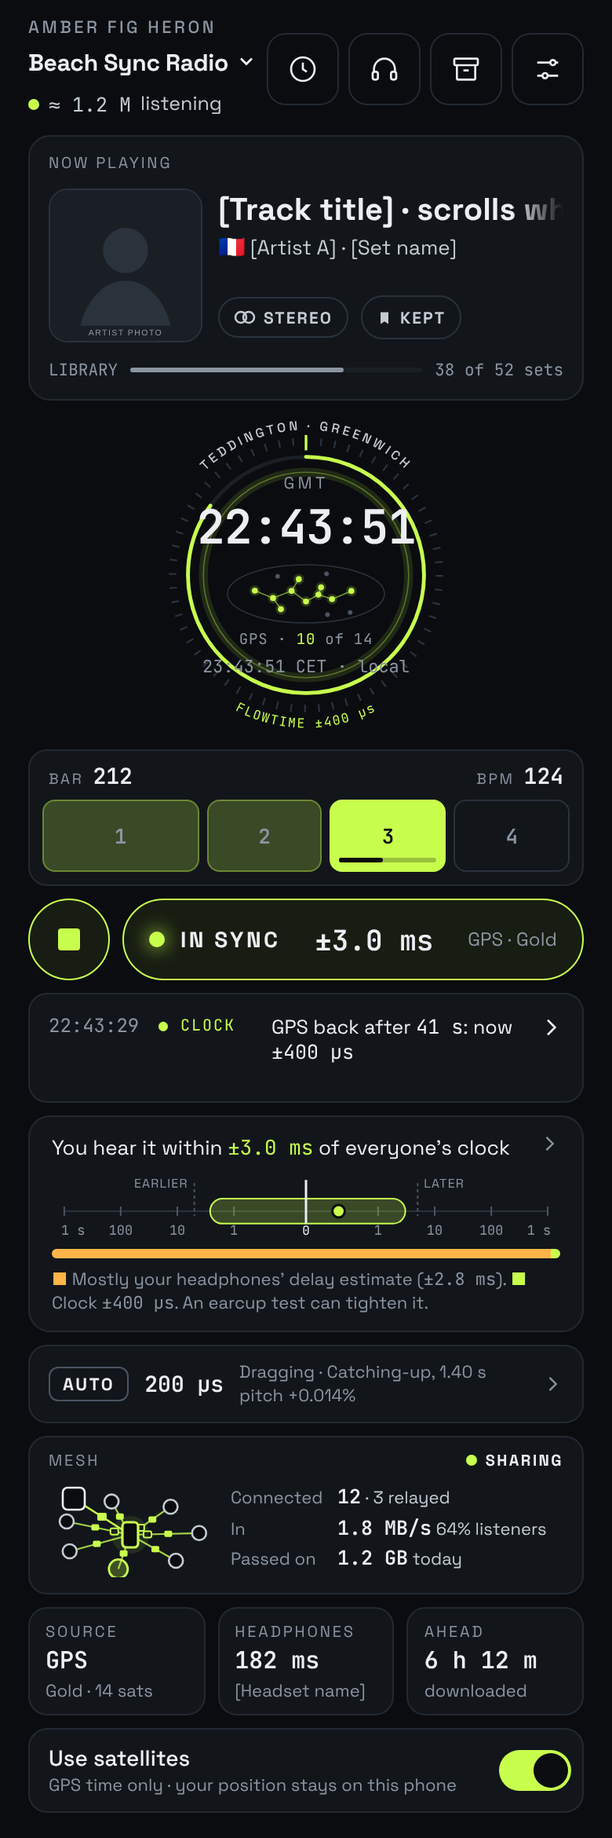
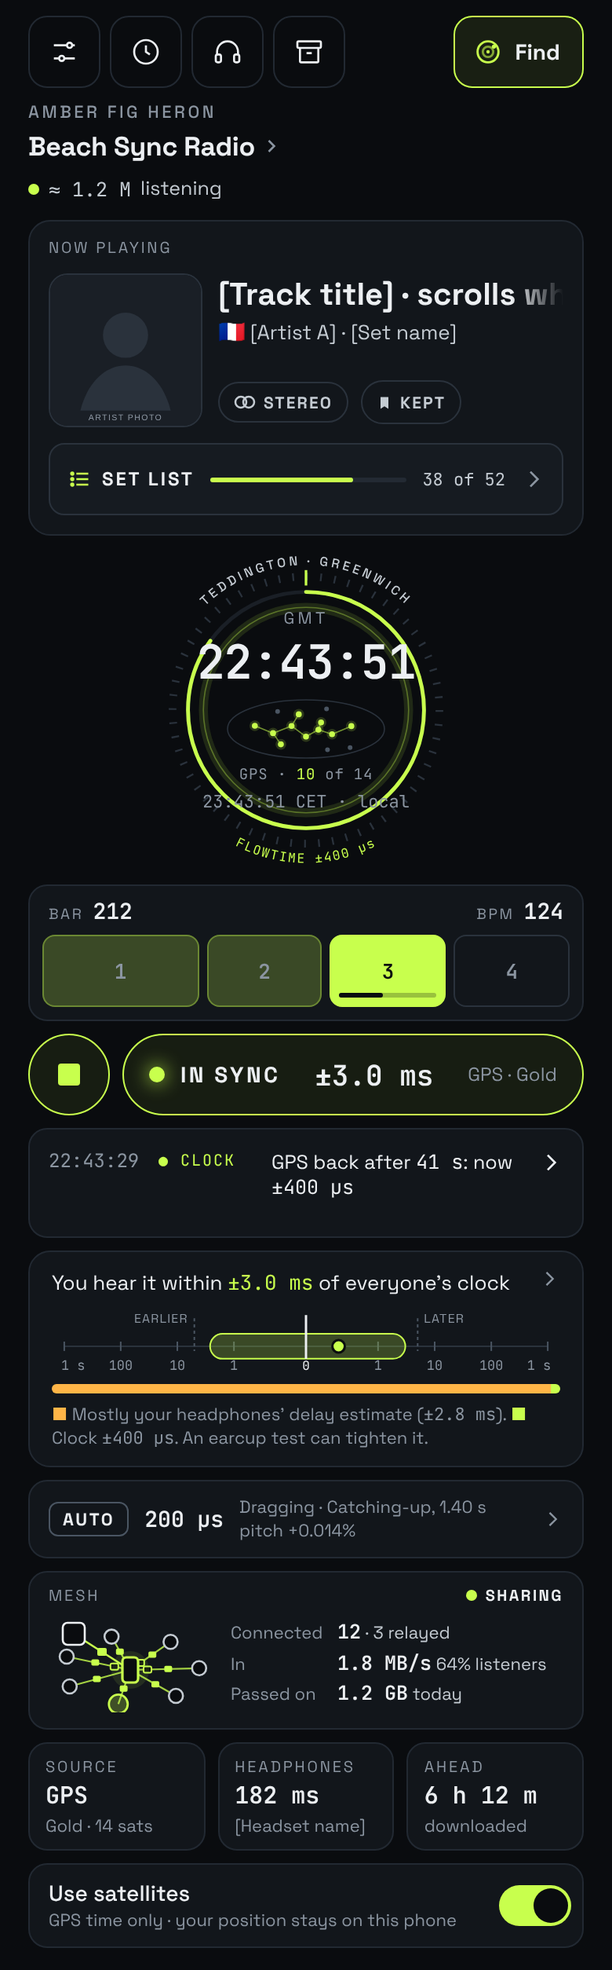
Hand-offs 58-61 from Claude Desktop; work queue: their build order and 15 Nov mesh findings

diff --git a/design/ui-spec.md b/design/ui-spec.md
@@ -1,4 +1,4 @@
-# UI spec (hand-off 57)
+# UI spec (hand-off 63)
 
 Field names come from Claude Code's "Fields that exist today" table in `feedback.md`, as of 1 Nov 2026. If one has been renamed since, use the new name.
 
@@ -1226,12 +1226,12 @@ Boards: Now playing · receiving, Receiving · states. Screens: `home-receiving.
 
 | Part | Spec |
 |---|---|
-| Where | Now Playing, directly under the clock, above the beat strip. Only while a set is arriving (the next set, a gap being filled, a kept set). Not for sending only: that stays in the Mesh card. Tap opens Swarm. |
+| Where | Now Playing, directly under the clock, above the beat strip. Only while a set is arriving (the next set, a gap being filled, a kept set). Not for sending only: that stays in the Mesh card. Tap the block map: Where it came from (hand-off 58). Tap elsewhere: Swarm. |
 | Box | Same card as Now Playing (`#12161B`, 14 px radius) with a `color-mix(in srgb, {{accent}} 35%, transparent)` border and a faint accent glow in the top-right corner (`radial-gradient`, accent 9%). |
 | Header | Live dot (accent, soft halo) · `RECEIVING` in accent caps, under it `peer-to-peer · from 9 listeners` in grey. Right: rate `1.8 MB/s` (mono, 16 px) and a 44×18 sparkline of the last 60 s, accent line over a 14% fill. |
 | Set line | Set name 15 px bold, `next · 12:31` grey, right `404 / 640 MB` mono. Several sets queued: the soonest, with `1 of 3` beside the name. |
 | Block map | 32 × 5 squares (8 px, 2 px gap), one square per block in playing order, left to right then top to bottom. From a listener: accent 90%. From the station: grey `#8B95A1` 55%. Just arrived (last 2 s): near-white with an accent glow. On its way: dashed accent outline. Still needed: `#1A1F26`. Under it: a tick and `plays from here 12:31` at the left, `end 13:52` at the right (mono 8.5 px). If a set has more blocks than 160, each square stands for several and lights when all of them are in. |
-| Listeners | The 3 sending most: avatar (initials in their colour), flag from their address (none if unknown), nym, Wi-Fi icon if on the same Wi-Fi, a rate bar (accent gradient) and kB/s. Then `The station · 12%` with a grey bar. Rows swap only after 10 s. Tap a row: that listener's blocks stay lit and the rest dim for 3 s; a second tap opens their Swarm sheet. |
+| Listeners | The 3 sending most: avatar (initials in their source colour: blue `#3987e5`, orange `#d95926`, aqua `#199e70`, the same as Where it came from, hand-off 58), flag from their address (none if unknown), nym, Wi-Fi icon if on the same Wi-Fi, a rate bar (accent gradient) and kB/s. Then `The station · 12%` with a grey bar. Rows swap only after 10 s. Tap a row: that listener's blocks stay lit and the rest dim for 3 s; a second tap opens their Swarm sheet. |
 | Footer | `✓ 101 blocks checked` (every block is hash-checked before it counts) · right `ready in ~2 min`. One line. |
 | States | Finding listeners (station only, `looking for listeners…`); nobody near has it (grey dot, `from the station · no listeners yet`); a block fails its check (amber line: `1 block failed its check. Thrown away; fetching it from another listener.`, amber square in the map); paused on mobile data (grey `PAUSED`, map dimmed, `Change ›` to Data and sharing); ready (`READY`, `Every block checked · 87% came from 9 listeners`, folds away after 4 s). |
 | Motion | Opens by pushing the beat strip down over 250 ms; folds to nothing over 300 ms. A landing block pops 40 %→100 % in 180 ms, flashes white and settles to accent over 600 ms. On-its-way outlines breathe. Map at most 4 redraws a second; rate once a second, smoothed over 5 s. Reduced motion: no pop, flash, breathing or halo pulse. |
@@ -1240,3 +1240,88 @@ Boards: Now playing · receiving, Receiving · states. Screens: `home-receiving.
 
 ## Track and set names: no YouTube IDs (user 15 Nov)
 Names must never show a YouTube video ID. A trailing ` [xxxxxxxxxxx]` (an 11-character ID of letters, digits, `-` and `_` in square brackets, as download tools add to file names) is removed from titles when a file is uploaded or its tags are read, and from every existing entry. Only that exact pattern at the end of a name is removed; other brackets (`[Live]`, `[Remix]`) stay.
+
+## Where it came from (hand-off 58, user 15 Nov)
+Boards: Where it came from, Where it came from · views. Screens: `block-sources.png`, `block-sources-views.png`.
+
+| Part | Spec |
+|---|---|
+| Entry | Tap the block map in the Receiving box; **Where it came from** on a set in the Set list or Kept, and Settings › Where it came from (hand-off 63). Back returns to where you came from. Live while the set is still arriving. |
+| Header | `WHERE IT CAME FROM` over the set name. Line: `4,860 blocks · 640 MB · one square is one second` (while arriving: `1,900 of 4,860 blocks · still arriving`). Hero: `92%` (34 px) `from 9 listeners, peer-to-peer`, then a 10 px stacked bar of the shares (2 px gaps, 3 px radius). |
+| View switch | Segmented `Listener · Country · Route` (36 px tall). Recolours the map, bar and list. |
+| Map | One square per second of the set, 60 to a row, so one row is one minute; a time label every 10 rows (`12:41`, mono 7.5 px). Squares 4.2 px with 0.9 px gaps. Missing: `#161A20`. |
+| Colours | Max three named sources, fixed order: blue `#3987e5`, orange `#d95926`, aqua `#199e70` (validated for colour-blind separation on `#0A0C0F`). Everyone else: slate `#4A525C`. The station: grey `#8B95A1` with 45° stripes, so it reads without colour. Never the station accent (it could match a source). Listener view: top 3 listeners. Country: top 3 countries. Route: same Wi-Fi / across the internet / relayed, station striped. |
+| List = legend | Under the map, one 44 px row per colour: swatch, flag + name (or group), sub-line (route, listener count, or what it means), block count, share. `6 other listeners` opens the full list. |
+| Tap a source row | Its squares and bar segment stay lit, everything else drops to 18–25 %. Second tap: the listener's Swarm sheet. |
+| Tap a square | White outline, card under that row: swatch, flag, nym, `plays 12:58:13 · 38 ms · ✓ checked`, `Proof ›` to the Block provenance sheet. Drag to scrub; the card follows. |
+| Footer | `✓ Whoever sent it, every block was checked against the station's signature before it was kept. Tap a square for its proof.` |
+| Data | Per set, the phone keeps which source sent each block (a 1-byte index into a small source table: key, nym, country at the time, route), about 5 kB a set. Kept with the set, deleted with it, never uploaded. |
+| Words | `peer-to-peer`, `listeners`, `the station`. Never the networking library's name. |
+
+## Your own station (hand-off 59, user 15 Nov)
+Boards: Start a station, · key, · music, · running order, Publish your station, Your station · on air, Your station · states. Screens: `make-station*.png`, `my-station.png`. The example station "Pier Nine" (Orchid) is made up.
+
+| Part | Spec |
+|---|---|
+| Entry | Stations › **Start a station** (row under Add any station). With a station, it's the first row in Stations with an ON AIR dot and opens Your station. One station per phone for now. |
+| Steps | 4-step bar under Back: `1 · Name`, `2 · Key`, `3 · Music`, `4 · Order` (3 px bars, accent when done). Then Publish. Back keeps everything entered. |
+| 1 · Name | Live preview of the Stations row. Name (required), one line (≤ 60 chars), tags (≤ 3, chips), station colour (the 21 swatches, 30 px), News on the button: BBC (default), NPR, None. Note: changes go out with the next edition. |
+| 2 · Key | The key is made on the phone. Card: tile, four key words (2×2, mono, in the station colour), short key. Amber card: back up 24 words, can't skip; losing phone and words loses the station; anyone with the words can run it. `Show my 24 words`, then check words 7, 15, 22 (states board). Link: restore an existing station from its words. Same word list and checksum as the listener identity (docs/keys.md). |
+| 3 · Music | Two sources: Files (MP3, M4A, FLAC, WAV, Opus) and the share sheet (Share › Brocast). One file = one set, 10 min to 6 h. Each row: title (YouTube ID removed, with a `video ID removed` tag), artist with flag, length and size, state (encoding % with bar, ready, needs artist). New artist card: name (matches existing as you type), country (optional), photo (optional). Footer: total length, ~MB vs free space, encoding note (72 MB/hour, pauses under 20% battery or 1 GB free). Refused: too short, not audio. |
+| 4 · Order | Edition badge `DRAFT`. 24 h strip (first pass full, repeats at 40%). Rows: start time, colour bar, name, length, drag handle (lifted row: accent border + shadow). `Repeat to fill 24 hours` (on). Start time. Note: on air no sooner than 10 min after publishing plus fetch time; nothing goes out before then. |
+| Publish | **(hand-off 60)** `Ready to publish`: preview row; `Before it goes out` (copies already kept stay kept; your phone's name and address never shown; anyone with the station key can publish as the station). `List it in Stations` switch, on by default: the listing goes into the mesh directory, signed by the station key, nobody approves it. No legal checkbox (user: legal is out of scope). `Publish <name>`. Then Share: QR (`brocast://station/<key>?n=<name>`), four words, Share link / Copy; the code never contains the key. — was: `You're the publisher` with a responsibility checkbox and `Ask to be listed`. |
+| Your station | Tile, `ON AIR · YOUR STATION` dot in the station colour, edition and current set. Tiles: listening, sharing, share of blocks from you. **Who holds your sets**: per set, who has it (this phone, your computer, N listeners) as stacked dots; a set only on this phone is amber `Only on this phone` with advice. **Keep it on air**: share while charging on Wi-Fi (on), share on mobile data (off), last 24 h sent / battery. Your computer row (desktop seeder, docs/desktop-seeder.md). Links: running order, sets, name/colour/news, share, **co-hosts** (hand-off 60), back up words. |
+| Nobody holds a set | Listener sees `[STATION] · WAITING`, `[Set] should be on now`, `Nobody who has it is online. It starts the moment someone is, at the right second.` Keep waiting / Another station. |
+| Words | `your station`, `publish`, `listeners`, `peer-to-peer`. Never the networking library's name. |
+| Directory (hand-off 60) | The directory is shared over the mesh (user, 15 Nov). Any station can list itself; each listing is signed by its station key; nobody approves listings. Same-named stations show their four key words. Stations footnote: `Listed: in the mesh directory, 48 stations. Any station can list itself; the tick means the listing is signed by that station's key.` |
+| Co-hosts (hand-off 60) | User: "Users can share their private key." Your station › Co-hosts › **Add a co-host**: amber `This is the whole station` (co-host can publish, change the order, pass the key on; can't be taken back; removing means a new station). QR (key encrypted) + a 4-digit code the other phone types; works once, expires in 2 min, same room. Fallback: restore from the 24 words. Receiving phone: `Become a publisher of <name>?` with the four words to compare. List of handovers made from this phone only. |
+| Co-host safety | Publishing needs the mesh: a phone must have the latest edition before it publishes (two phones appending to the same core would fork it). If another phone published meanwhile: `Edition 3 came from another phone` — your changes are rebased as a draft on top; Discard mine / Review. Offline: Publish disabled with the reason; draft kept. Station page lists editions with "from this phone" / "from another phone with the key". |
+
+## Time signals on the beat (hand-off 61, user 15 Nov)
+Boards: Time signals (scene now live), Time signals · on the beat. Screens: `time-signals.png`, `time-signals-beat.png`. The canvas boards animate (SVG); open them to watch at 124 BPM.
+
+| Part | Spec |
+|---|---|
+| Every beat | A small pulse (near-white core `#F4FFE0`, accent halo) runs down each line of the source in charge (satellites, or the mast for internet time) and lands on the top of the phone exactly on the beat (eased in, leaves one beat earlier). The phone fills with accent at 55% and fades over the beat. The mast sends one expanding arc from its aerial (r 4→34 over a beat), accent at 90% when internet time leads, grey at 35% otherwise. |
+| Beat 1 of each bar | An ellipse ring spreads from the phone across the ground (rx 12→150, ry 4→26, fades by 60% of the bar) and the phone's glow brightens to 35%. |
+| Beat dots | The phone's single dot becomes four (1.3 px, 4 px apart), the current beat lit, like the beat counter. Label beside the phone: `BAR 212` / `124 BPM`. |
+| Timing | Phase comes from flowtime and the set's beat grid (the same numbers as the BAR / BPM counter), not an animation timer. A beat-counter correction applies from the next bar. |
+| No beat | Music stopped or not in sync: still picture, as before. Talk or no beat grid: one pulse a second, no ring, dots grey, label `NO BEAT · 1 s ticks`. Bars of 3–7 beats: dots follow the bar length. |
+| Reduced motion | No travelling pulses, waves or rings; beat dots still step and the phone brightens slightly on beat 1. |
+| Unchanged | The sun moves once a minute; accuracy stays in the labels. Caption: `Signals land on the beat: the clock that keeps everyone in time also keeps the bars. Tap the satellites, the mast or the hourglass to see what each is.` |
+
+## Find a station (hand-off 62, user via Claude Code 15 Nov)
+Boards: Find a station, Find a station · scan, Find a station · states; Now Playing (Main) header changed. Screens: `find-station*.png`, `now-playing.png`. Supersedes the Stations list (Stations board) as the way in; Station page and the switching/trust states stay.
+
+| Part | Spec |
+|---|---|
+| Home header | Two rows. Row 1: **Settings** (top left), Time signals, Headphone lag, Archive (44 px squares), spacer, **Find** (top right). Row 2: nym caps, station name 17 px bold with a › (opens the station page), `≈ 1.2 M listening` (opens Swarm). Header grows 52 px. |
+| Find button | 44 px tall: radar icon (two rings, a dot) + `Find`, 1.5 px station-colour border, 8% station-colour fill. Opens Find a station. |
+| First start | Button filled in the station colour, dark icon and text; two rings pulse out from it every 1.6 s (0.8 s apart, scale to 1.45×1.9, fade); radar wedge sweeps in the icon. Tip below, white: `New: find more stations, or scan one from a friend's phone`. Stops for good on the first tap or the first time Find is opened. Reduced motion: filled + tip, no rings or sweep. |
+| Screen | Back `Find a station`; tabs `On the mesh` / `Scan a code`. Radar card: 84 px radar (sweep turns every 3 s; each found station is a dot in its colour that brightens as the sweep passes), `23 stations on the mesh`, `Still looking · new ones appear as they're found`. Search, tag chips. Sections: NOW (current, accent border), FOLLOWING, ON THE MESH · N (most listened first; rows have **Listen**). Footnote: every listing is signed by its station's key; anyone can list; same names show four key words. |
+| Scan a code | Camera at once (permission first time). Corner brackets in station colour, a scan line sweeping up and down. On a station code: frame snaps to the code, short buzz, sheet with tile, name (+ tick if listed), line, four key words in the station's colour, on now, a note (listed: words match its page; unlisted: compare the four words), **Follow** / **Listen now**. A set code: `That's a code for one set (…), not a station.` + `Open it in Pass it on`. |
+| States | Searching (2 dots, `Looking on the mesh…`, skeleton rows; followed stations show at once). Nothing found (`No stations found yet`; can take a minute on a new network; suggest scanning). Offline (followed stations still show; scanning works on the same Wi-Fi or hotspot). Search no match: Clear search / Scan a code. |
+| After picking | Switching card as before (current keeps playing until 5 s of the new station are ready, then cuts over on the next second, in sync). The app's colour fades to the new station's over 400 ms; toast `Now on <station> · in sync` with Undo for 6 s. |
+| Words | `On the mesh`, `station code`, `listeners`. Never the networking library's name. |
+
+## Set list (hand-off 63, user 15 Nov)
+Boards: Set list, Set list · states; Now Playing (Main) updated. Screens: `set-list.png`, `set-list-states.png`, `now-playing.png`.
+
+| Part | Spec |
+|---|---|
+| Button | Replaces the `LIBRARY` bar at the foot of the Now playing box: a 44 px button (`#161B21`, 1 px `#2A323C`, radius 10): list icon + `SET LIST` (12 px, bold, 0.12em), 3 px bar in the station colour (sets on this phone / all sets), `38 of 52`, chevron. Pressed `#1E242C`. Label: "Set list: 38 of 52 sets on this phone. Open the set list". Box grows 32 px. |
+| Screen | Back `Now playing`; `SET LIST` over the station name; summary `38 of 52 sets on this phone · 3.9 GB`, bar in the station colour, one line on fetching. Tabs `Running order` / `All 52 sets`. |
+| Running order | `Earlier today · N played since 09:00` (dashed, expands). NOW row (station-colour border and 7% tint, `NOW · ENDS 18:46`), then UP NEXT. Each row: start time (mono), 4 px set-colour bar, 44 px photo, set name, flag + artist, length · BPM, status: on this phone (station-colour check), arriving (ring filling with %), not yet (dashed ring, `by 23:44`). Footer: edition, loop length, when it starts again. Opens scrolled to Now. |
+| All sets | A–Z, filters All / On this phone / Not yet. Sets not in today's order say so. |
+| A set (tap) | Sheet: photo, name, flag + artist, plays at · length · BPM · tracks, on-phone line; actions Tracks, Keep, Pass it on, Where it came from. Nothing jumps the radio ahead. |
+| Live | Arriving rings fill; when the order moves on, Now slides down a row (300 ms); a new edition updates in place. |
+| Older boards | Now playing states still shows the old `LIBRARY · GB` row; Set list replaces it. |
+
+## Receiving and Where it came from in Settings (hand-off 63, user 15 Nov)
+Boards: Settings, Receiving (from Settings), Where it came from · pick a set. Screens: `settings.png`, `receiving-screen.png`, `where-from-pick.png`.
+
+| Part | Spec |
+|---|---|
+| Settings rows | In DELIVERY, under Share with other listeners: **Receiving** (`● Meadow Hours arriving · 64% · 1.8 MB/s`, or `Nothing arriving`) and **Where it came from** (`Which listener sent each block of a set`). 60 px rows with ›. |
+| Receiving screen | Back `Settings`; `PEER-TO-PEER` / `Receiving` + one line. The Receiving box (same as on Now playing, hand-off 57). QUEUED (next sets, `waiting`). ARRIVED RECENTLY: rows with photo, name, flag + artist, `arrived 17:02 · 9 listeners`, a mini block-map preview (10×4) and `91% listeners`; tap → Where it came from. Idle: `Nothing arriving right now` + when the next set is fetched. |
+| Pick a set | Back `Settings`; `Where it came from` + one line; search; ARRIVING (live set, `64% here · still arriving` in station colour), ON THIS PHONE · NEWEST FIRST; same row style; tap → Where it came from for that set. |

diff --git a/design/feedback.md b/design/feedback.md
@@ -489,3 +489,32 @@ User: "Do we need to change the design to allow more beats in a bar? … the use
 - h53 reactions: tray under the mesh card, counts per minute, one per 3 s, others' land on the next beat 1 (from the set's beat grid), Swarm ring + emoji, two settings. No soft tick sound on send (visual "Sent" line instead). Reduced/Minimal levels don't exist yet.
 - h53 kept people: daily ledger on the phone (bytes passed on ÷ the library's bitrate; a person = 60 s+), Swarm headline + week bars, `Helped` replaces Passed on once someone counts, once-a-day note, Settings › Delivery › Thank-you notes. "Played" isn't known, so passed-on bytes stand in.
 - h53 pass it on: Kept › a set › Pass it on (no Now playing ⋯ menu yet); code = brocast://pass/<station>/<set>?via=<key>; camera app opens Brocast; Kept › Scan uses Google's code scanner (Play services). Receiver: what/who/SIGNED, Get it / Cancel, progress, KEPT, can't reach (after 45 s with no progress). Not tried yet as a real transfer: both phones already hold every set.
+
+## 15 Nov: build and publish your own station from the app (user) — design brief
+
+User: "add a feature that allows a user to build and publish their own station using the app." Design first, please; nothing is built.
+
+What the design needs to cover (suggested, not decided):
+- **Create**: name, station colour, news choice, cover/artist photos; the station's identity is a key pair made on the phone (backup words, as for the listener identity: 24 words + checksum, docs/keys.md).
+- **Add music**: sets from the phone (files, or other apps' share sheet); artist names and countries; YouTube-ID stripping and artist matching as on the upload page.
+- **Running order and editions**: the upload page's draft → publish flow, on a phone; new orders go on air at least 10 minutes later plus D.
+- **Publish and share**: the station key as a QR/link (like Pass it on), and how listeners find it.
+- **Staying on air**: who seeds when the creator's phone is off (their own phone, listeners, an optional laptop/desktop seeder, docs/desktop-seeder.md); battery and data costs on the creator's phone; what listeners see when nobody holds a set.
+
+Facts that shape it:
+- A station is a signed catalog plus one Hypercore per set; only the holder of the station key can add sets or publish an edition. Listeners verify every block.
+- The phone would encode uploads to 48 kHz stereo Opus, 20 ms packets (YouTube format 251 can be kept as-is), about 72 MB per hour of music.
+- Today a station runs only on the laptop (pears/tools/station.js) or the GCP test server; the phone engine only listens and re-shares.
+- Phones can't yet offer sets they got over plain HTTP on the mesh (needs proof import, on the work queue).
+- Legal/rights: a public station plays other people's music; the design should say who is responsible and what the app shows.
+
+Open questions for the user are welcome in the brief back.
+
+## 15 Nov: Find a station (user)
+
+A new screen, opened from a new button at the **top right of the home screen**; the Settings button moves to the **top left**.
+
+1. **Stations on the mesh:** lists stations announced to the Pears mesh (a station directory; engine side not built yet), so the listener can pick one.
+2. **Scan a station:** scan a station QR code shown by another phone (the same idea as Pass it on's code, but for a whole station).
+- On the **first app start**, the new button is animated to encourage a tap; it stops once tapped.
+- Please design the button, its first-start animation, the screen (list, empty and searching states, scan) and what happens after a station is picked.

diff --git a/docs/work-queue.md b/docs/work-queue.md
@@ -11,6 +11,19 @@ Work agreed but not started. Newest first. Move an item out when it is built.
 
 Context: on 15 Nov, on client-isolated public Wi-Fi, station → Galaxy → Motorola (station off) worked through a blind relay on the test server, byte-identical. A set took about 70 s through the relay; relayed bytes count as the server's egress, so relay tests stay at one set.
 
+## Claude Desktop hand-offs, in build order (user, 15 Nov: "do them in whichever order you prefer")
+
+1. **h61 Time signals on the beat.** Phase from flowtime and the beat grid; screen only, smallest. First.
+2. **h58 Where it came from.** Engine: per-set source log (source table + one byte per verified block, kept with the set, never uploaded); then the screen, Receiving box colours, entries from Receiving/Library/Kept. Also gives the Receiving box real senders.
+3. **Find a station** (brief 15 Nov in design/feedback.md; Desktop designing). Engine: the mesh station directory (signed listings on a topic, h60 item 2) and a station QR. New top-right home button, Settings to top left, first-start animation.
+4. **h59 + h60 Your own station.** Largest: station key pair and catalog writer on the phone, on-phone Opus encode, holder counts, edition rules, co-host key handover (encrypted QR, 4-digit code) and fork safety. Needs 3's directory first.
+
+## Mesh findings from the 15 Nov phone test
+
+- **Phones don't announce** on the catalog topic under the balanced profile, so two phones that only look can't find each other once the station is gone (a laptop listener had to announce). Decide who announces (e.g. every sharing phone on unmetered Wi-Fi).
+- **Networks that pass only HTTP/HTTPS** (user): HyperDHT is UDP, so it is blocked outright there. Fallback: carry the DHT over WebSocket on TCP 443 (Holepunch `@hyperswarm/dht-relay`) to a relay peer, or have peers tunnel traffic dressed as HTTPS. Detect: DHT not ready after N s, then switch.
+- The READY line of `pears/tools/station.js` prints the catalog key first and the station key second; phones need the second.
+
 ## Backlog: security and key management (user, 7 Nov: more important once there are users besides the user)
 
 - **Threat model** for the mesh: hostile peers, an inflated listener count, eclipse (a phone cut off from honest peers), and key loss or theft. Starting points: `docs/kademlia-research.md` §5, design note §12 (census).

diff --git a/design/handoff-59.md b/design/handoff-59.md
@@ -1,0 +1,28 @@
+# Hand-off 59: build and publish your own station (15 Nov)
+
+Your ASK 19:09 (brief: design/feedback.md "15 Nov: build and publish your own station"). User picked it next, 21:46.
+
+Canvas: Start a station, Start a station · key, · music, · running order, Publish your station, Your station · on air, Your station · states.
+Spec: ui-spec "Your own station (hand-off 59)".
+
+## Flow
+Stations › Start a station → 1 Name (name, line, tags, colour, news) → 2 Key (made on phone, 4 key words, 24-word backup required + check 3 words) → 3 Music (Files / share sheet, encode to Opus on phone, artist + country, YouTube ID stripping) → 4 Running order (draft edition, 24 h repeat, start time) → Publish (responsibility checkbox) → Share (QR/link/4 words, ask to be listed) → Your station (on air, who holds each set, keep-on-air switches, computer seeder).
+
+## Engine work this assumes
+- Station key pair + catalog writer on the phone (today only pears/tools/station.js on a laptop).
+- On-phone encode to 48 kHz stereo Opus 20 ms; keep YouTube format 251 as-is. Pause < 20% battery or < 1 GB free.
+- Per-set holder counts for "Who holds your sets" (this phone / paired computer / listeners).
+- Publishing edition rules as the upload page: no sooner than 10 min + fetch time.
+- Pairing a desktop seeder to a phone-made station (docs/desktop-seeder.md).
+
+## Decisions I made (user can overturn)
+- Backup of the 24 words cannot be skipped for a station (listener backup stays optional).
+- One station per phone for now.
+- New stations are unlisted; listing is a request to the directory keepers.
+- Sets 10 min to 6 h, one file each.
+- The publish checkbox is the only legal step in the app. Wording is a placeholder until the user decides (open question).
+
+## Open questions (sent to the user)
+1. Legal wording and who is responsible: is the creator alone responsible, and does Brocast need terms or a takedown contact?
+2. Who keeps the directory, and what gets a station listed?
+3. Should a station be able to have more than one publisher (co-hosts)?

diff --git a/design/handoff-63.md b/design/handoff-63.md
@@ -1,0 +1,16 @@
+# Hand-off 63: Set list button + Receiving / Where it came from in Settings (15 Nov)
+
+User: "On the front page, rename 'Library' to 'Set List' and make it a button. When users tap it, they should see the set list"
+User: "It should also be possible for the user to access the 'receiving' screen and 'where it came from' screens from Settings"
+
+Canvas: Set list, Set list · states, Settings (2 new rows), Receiving (from Settings), Where it came from · pick a set. Main and its derived boards (HomeReceiving, NewsNow, colour boards, ArtistFlag) regenerated with the new button.
+Spec: ui-spec "Set list (hand-off 63)" and "Receiving and Where it came from in Settings (hand-off 63)".
+
+Build:
+1. Now playing: replace the Library bar with the SET LIST button (44 px) → Set list.
+2. Set list: Running order (from the signed edition; times from flowtime) and All sets (catalog), with per-set on-phone status; set sheet with Tracks / Keep / Pass it on / Where it came from.
+3. Settings › Delivery: Receiving and Where it came from rows.
+4. Receiving screen (full screen version of the box + queued + arrived recently) and the set picker for Where it came from. Both need the per-block source log from hand-off 58.
+Library bar fill in station colour (your 15 Nov note) is covered: the Set list bar uses the station colour.
+
+Screens: set-list.png, set-list-states.png, receiving-screen.png, where-from-pick.png, settings.png, now-playing.png, home-receiving.png, news-now-playing.png, station-colour.png, admin-colour.png, artist-flag.png.

diff --git a/design/handoff-62.md b/design/handoff-62.md
@@ -1,0 +1,17 @@
+# Hand-off 62: Find a station (15 Nov)
+
+Your FYI 22:01 (brief: design/feedback.md "15 Nov: Find a station").
+
+Canvas: Find a station, Find a station · scan, Find a station · states (live: first-start pulse, radar, scan line). Now Playing header changed (Main); HomeReceiving, NewsNow and the colour boards regenerated with it.
+Spec: ui-spec "Find a station (hand-off 62)".
+
+Build:
+1. Home header: row 1 Settings (left), Time signals, Headphone lag, Archive, spacer, Find (right). Row 2: nym / station name › (station page) / listening (Swarm).
+2. Find button + first-start invite (filled, 2 pulsing rings, radar sweep, tip). Persist "seen" on first tap or first open of Find.
+3. Find a station: tabs On the mesh / Scan a code; radar card driven by mesh directory discovery count; Now, Following, On the mesh lists; search + tags; Listen on rows.
+4. Scan: camera, brackets, scan line; decode brocast://station/<key>; sheet with four key words, Follow / Listen now; set codes hand off to Pass it on.
+5. States: searching, nothing found, offline, no search match.
+6. After pick: existing switching flow; colour cross-fade 400 ms; toast with Undo 6 s.
+Mesh directory engine side is not built yet (per brief); design assumes signed listings (hand-off 60).
+
+Screens: design/screens/find-station.png, find-station-scan.png, find-station-states.png, now-playing.png, home-receiving.png, news-now-playing.png, station-colour.png, admin-colour.png.

diff --git a/design/handoff-58.md b/design/handoff-58.md
@@ -1,0 +1,16 @@
+# Hand-off 58: Where it came from (15 Nov)
+
+User: "Lets design something so the user can see where they obtained each block from"
+
+Canvas: Where it came from, Where it came from · views. Receiving boards updated (avatar colours).
+Spec: ui-spec "Where it came from (hand-off 58)"; Receiving box rows "Where" and "Listeners" amended.
+
+## Build
+1. Engine: record the source of every verified block (`blockInfo.peer`, `via`, `ms`) into a per-set source log: a table of sources (key, nym, country at the time, route) plus one byte per block. Store with the set; delete with it; never upload. This is also what the Receiving box needs to show real senders (your 15 Nov note: "until the engine reports per-block sources").
+2. Screen "Where it came from": header + share hero + stacked bar; Listener / Country / Route switch; the 60-per-row map (one row = one minute); the list as legend; footer.
+3. Colours: blue #3987e5, orange #d95926, aqua #199e70 for the top three of the current view, slate #4A525C for the rest, station striped grey. Not the station accent.
+4. Interactions: tap row to isolate; tap or drag on squares for the block card; Proof › opens Block provenance.
+5. Entry from the Receiving box map, and from Library / Kept set rows.
+6. Receiving box: the top-3 listener avatars use the same blue / orange / aqua.
+
+Screens: design/screens/block-sources.png, block-sources-views.png, home-receiving.png, receiving-states.png.

diff --git a/design/handoff-60.md b/design/handoff-60.md
@@ -1,0 +1,15 @@
+# Hand-off 60: your own station, user's answers (15 Nov)
+
+User's answers to the h59 questions: "1. Out of scope 2. The Pears mesh 3. Users can share their private key".
+
+1. Legal: out of scope. The publish step loses the responsibility checkbox and the report/takedown lines.
+2. Directory: the mesh is the directory. `List it in Stations` (on by default) at publish; listings are signed by the station key, nobody approves them. Stations footnote reworded (board Stations).
+3. Co-hosts share the station's private key. New boards: Your station · co-host, Co-hosts · states. Your station gets a Co-hosts row.
+
+Engine notes:
+- Key handover: QR carries the station key encrypted with a 4-digit code shown on the giver; one use, 2 min expiry.
+- Fork safety: before appending a new edition, sync the catalog to the latest length on the mesh; refuse to publish offline or when behind; rebase the local draft onto the newer edition and ask the user to review.
+- Remember which editions this phone published (local only) for the station page's edition list.
+
+Spec: ui-spec "Your own station" rows Publish, Your station, and new rows Directory, Co-hosts, Co-host safety.
+Screens: make-station-publish.png, my-station.png, make-station-states.png, make-station-cohost.png, make-station-cohost-states.png, stations.png.

diff --git a/design/handoff-61.md b/design/handoff-61.md
@@ -1,0 +1,14 @@
+# Hand-off 61: Time signals on the beat (15 Nov)
+
+User: "Animate the 'Time Signals' screen so it also synchronises to the bars of the music".
+
+Canvas: Time signals (the scene is now animated) and Time signals · on the beat (live examples for GPS, internet time, holding at night, and no-beat ticks; four stills of one bar; rules). The boards use SVG animation at a fixed 124 BPM; in the app drive the phase from flowtime and the beat grid.
+
+Build:
+1. Per frame: beatPhase = ((flowtime - gridStart) / beatLen) mod 1, beatInBar from the bar counter. Pulse position = ease(beatPhase) along each lit line; phone flash = 1 - beatPhase; downbeat ring from barPhase.
+2. Mast wave every beat (bright only when NTP is in charge).
+3. Four beat dots on the phone pictogram; BAR / BPM label beside it.
+4. No beat grid: 1 Hz ticks; stopped/out of sync: static. Reduced motion as spec.
+5. Pause the animation when the screen is off or Time signals isn't visible.
+
+Spec: ui-spec "Time signals on the beat (hand-off 61)". Screens: design/screens/time-signals.png, time-signals-beat.png.
